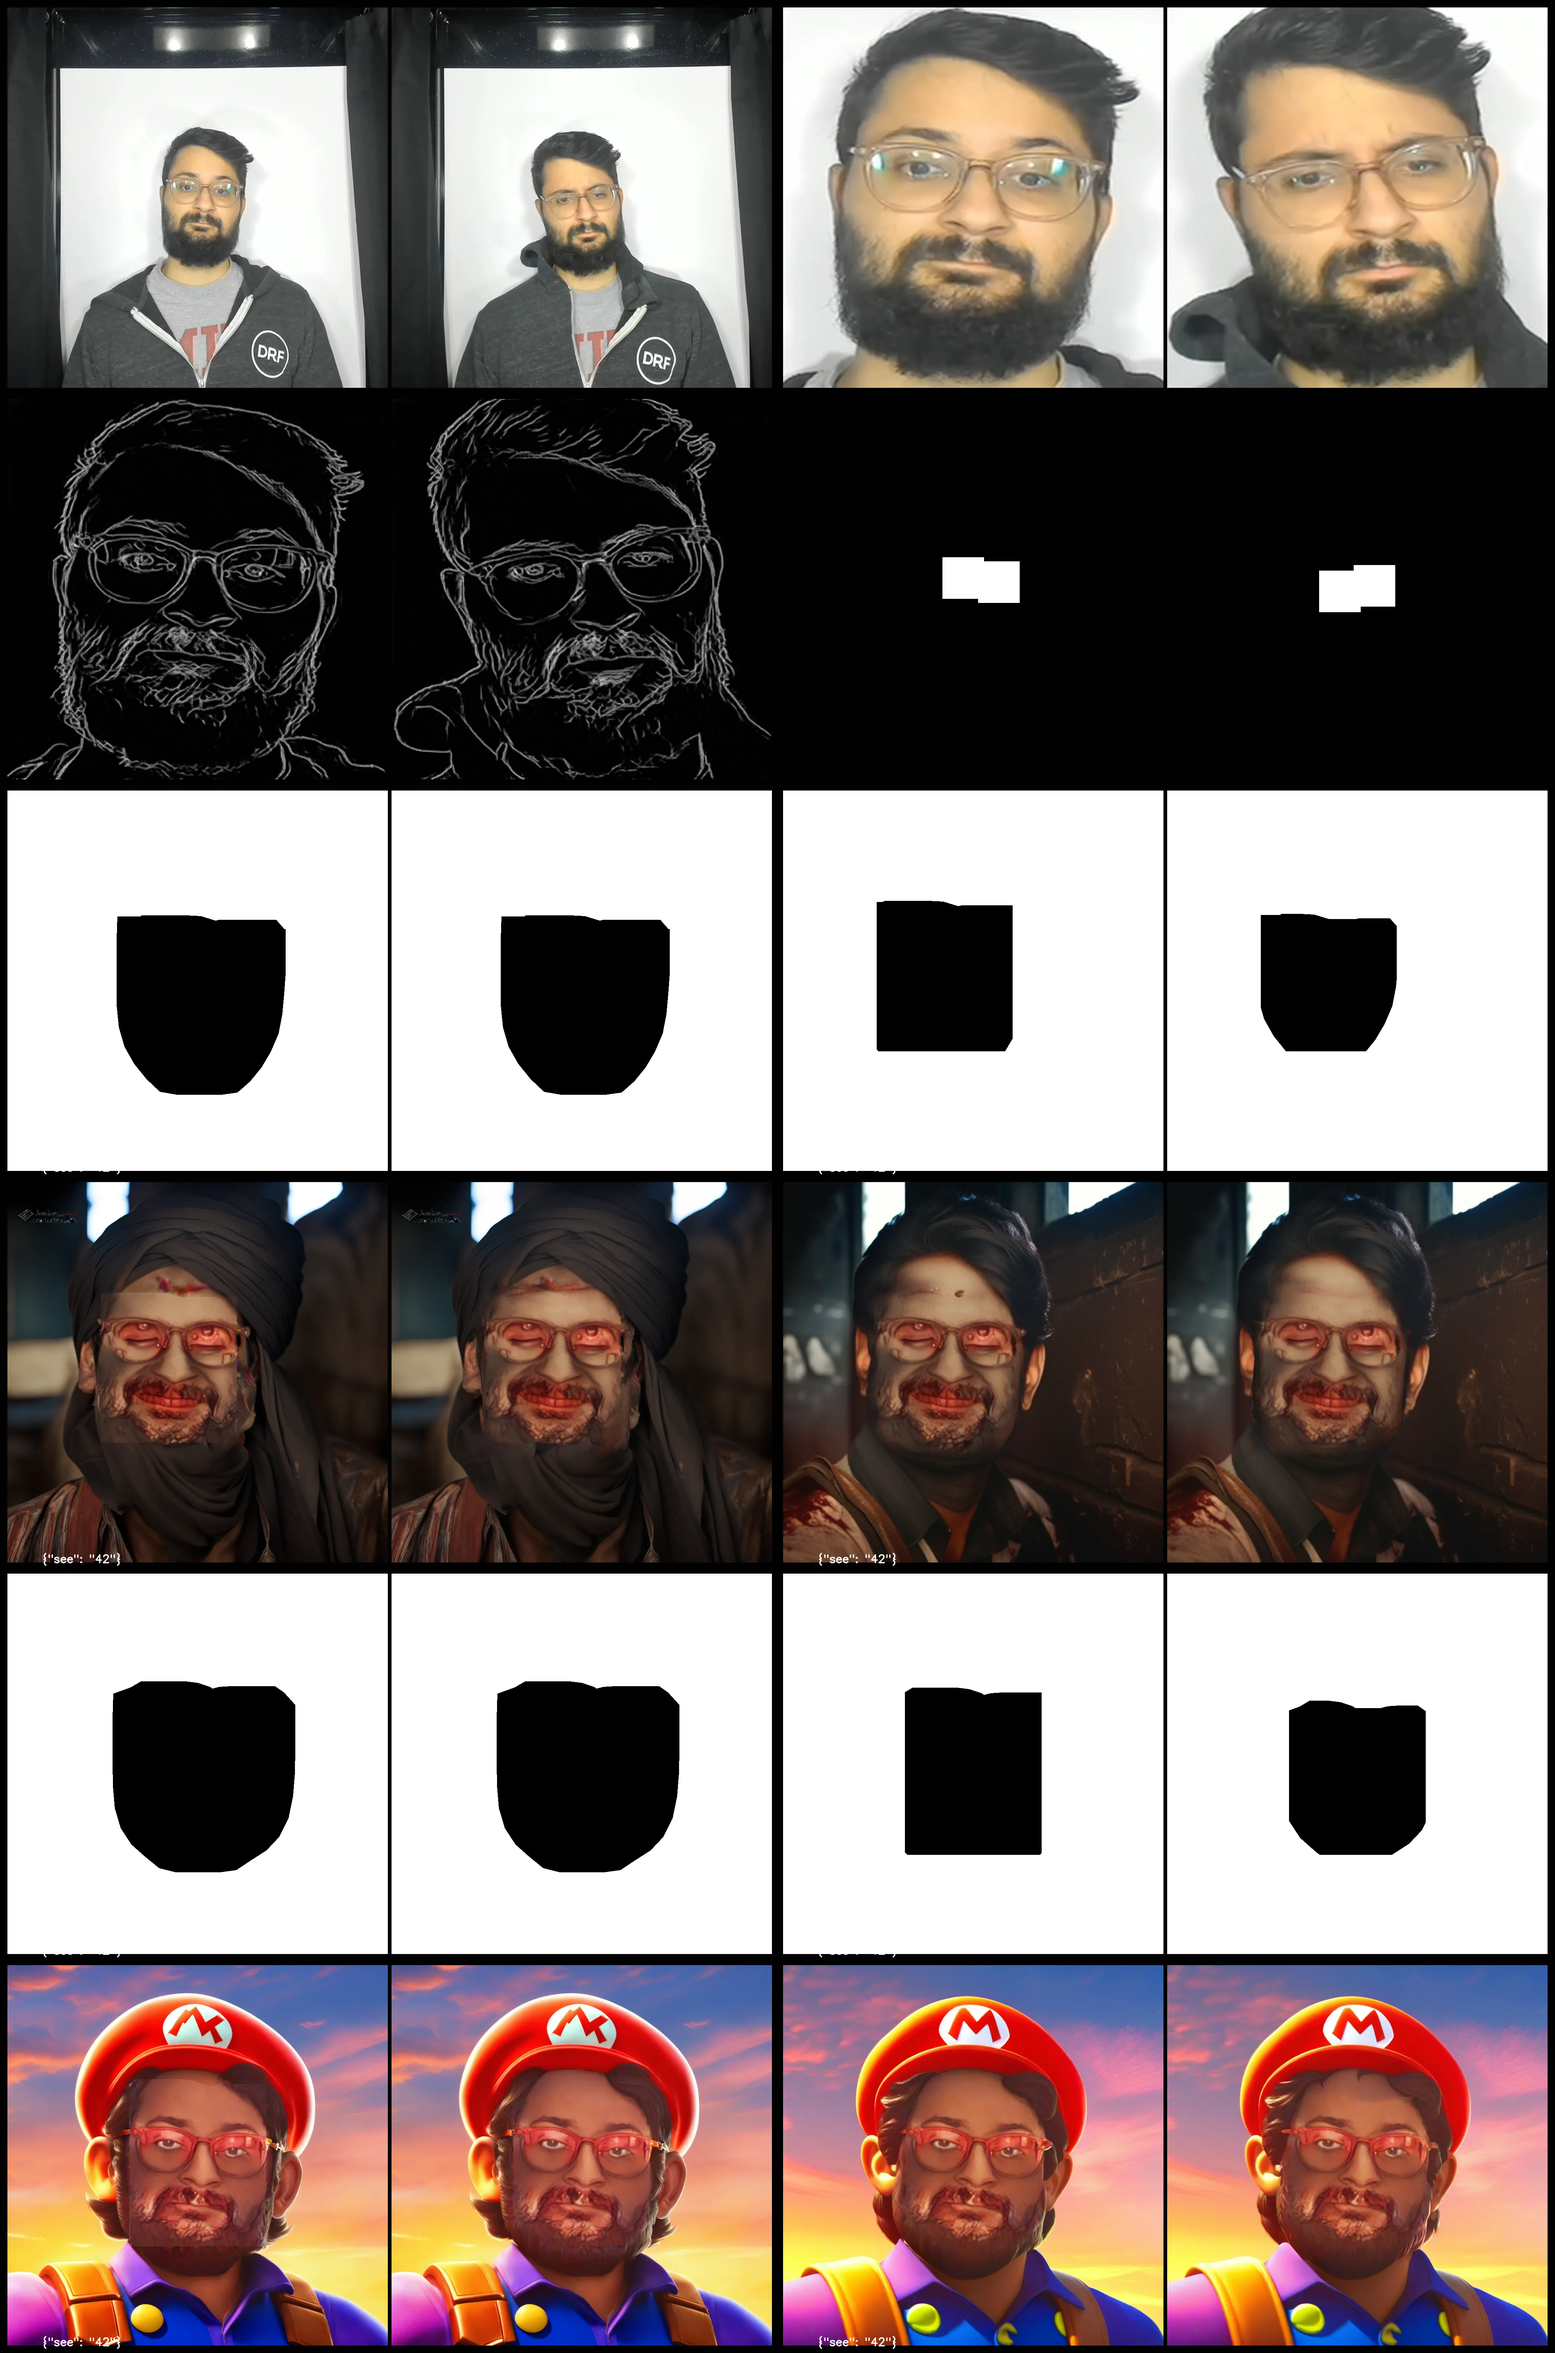
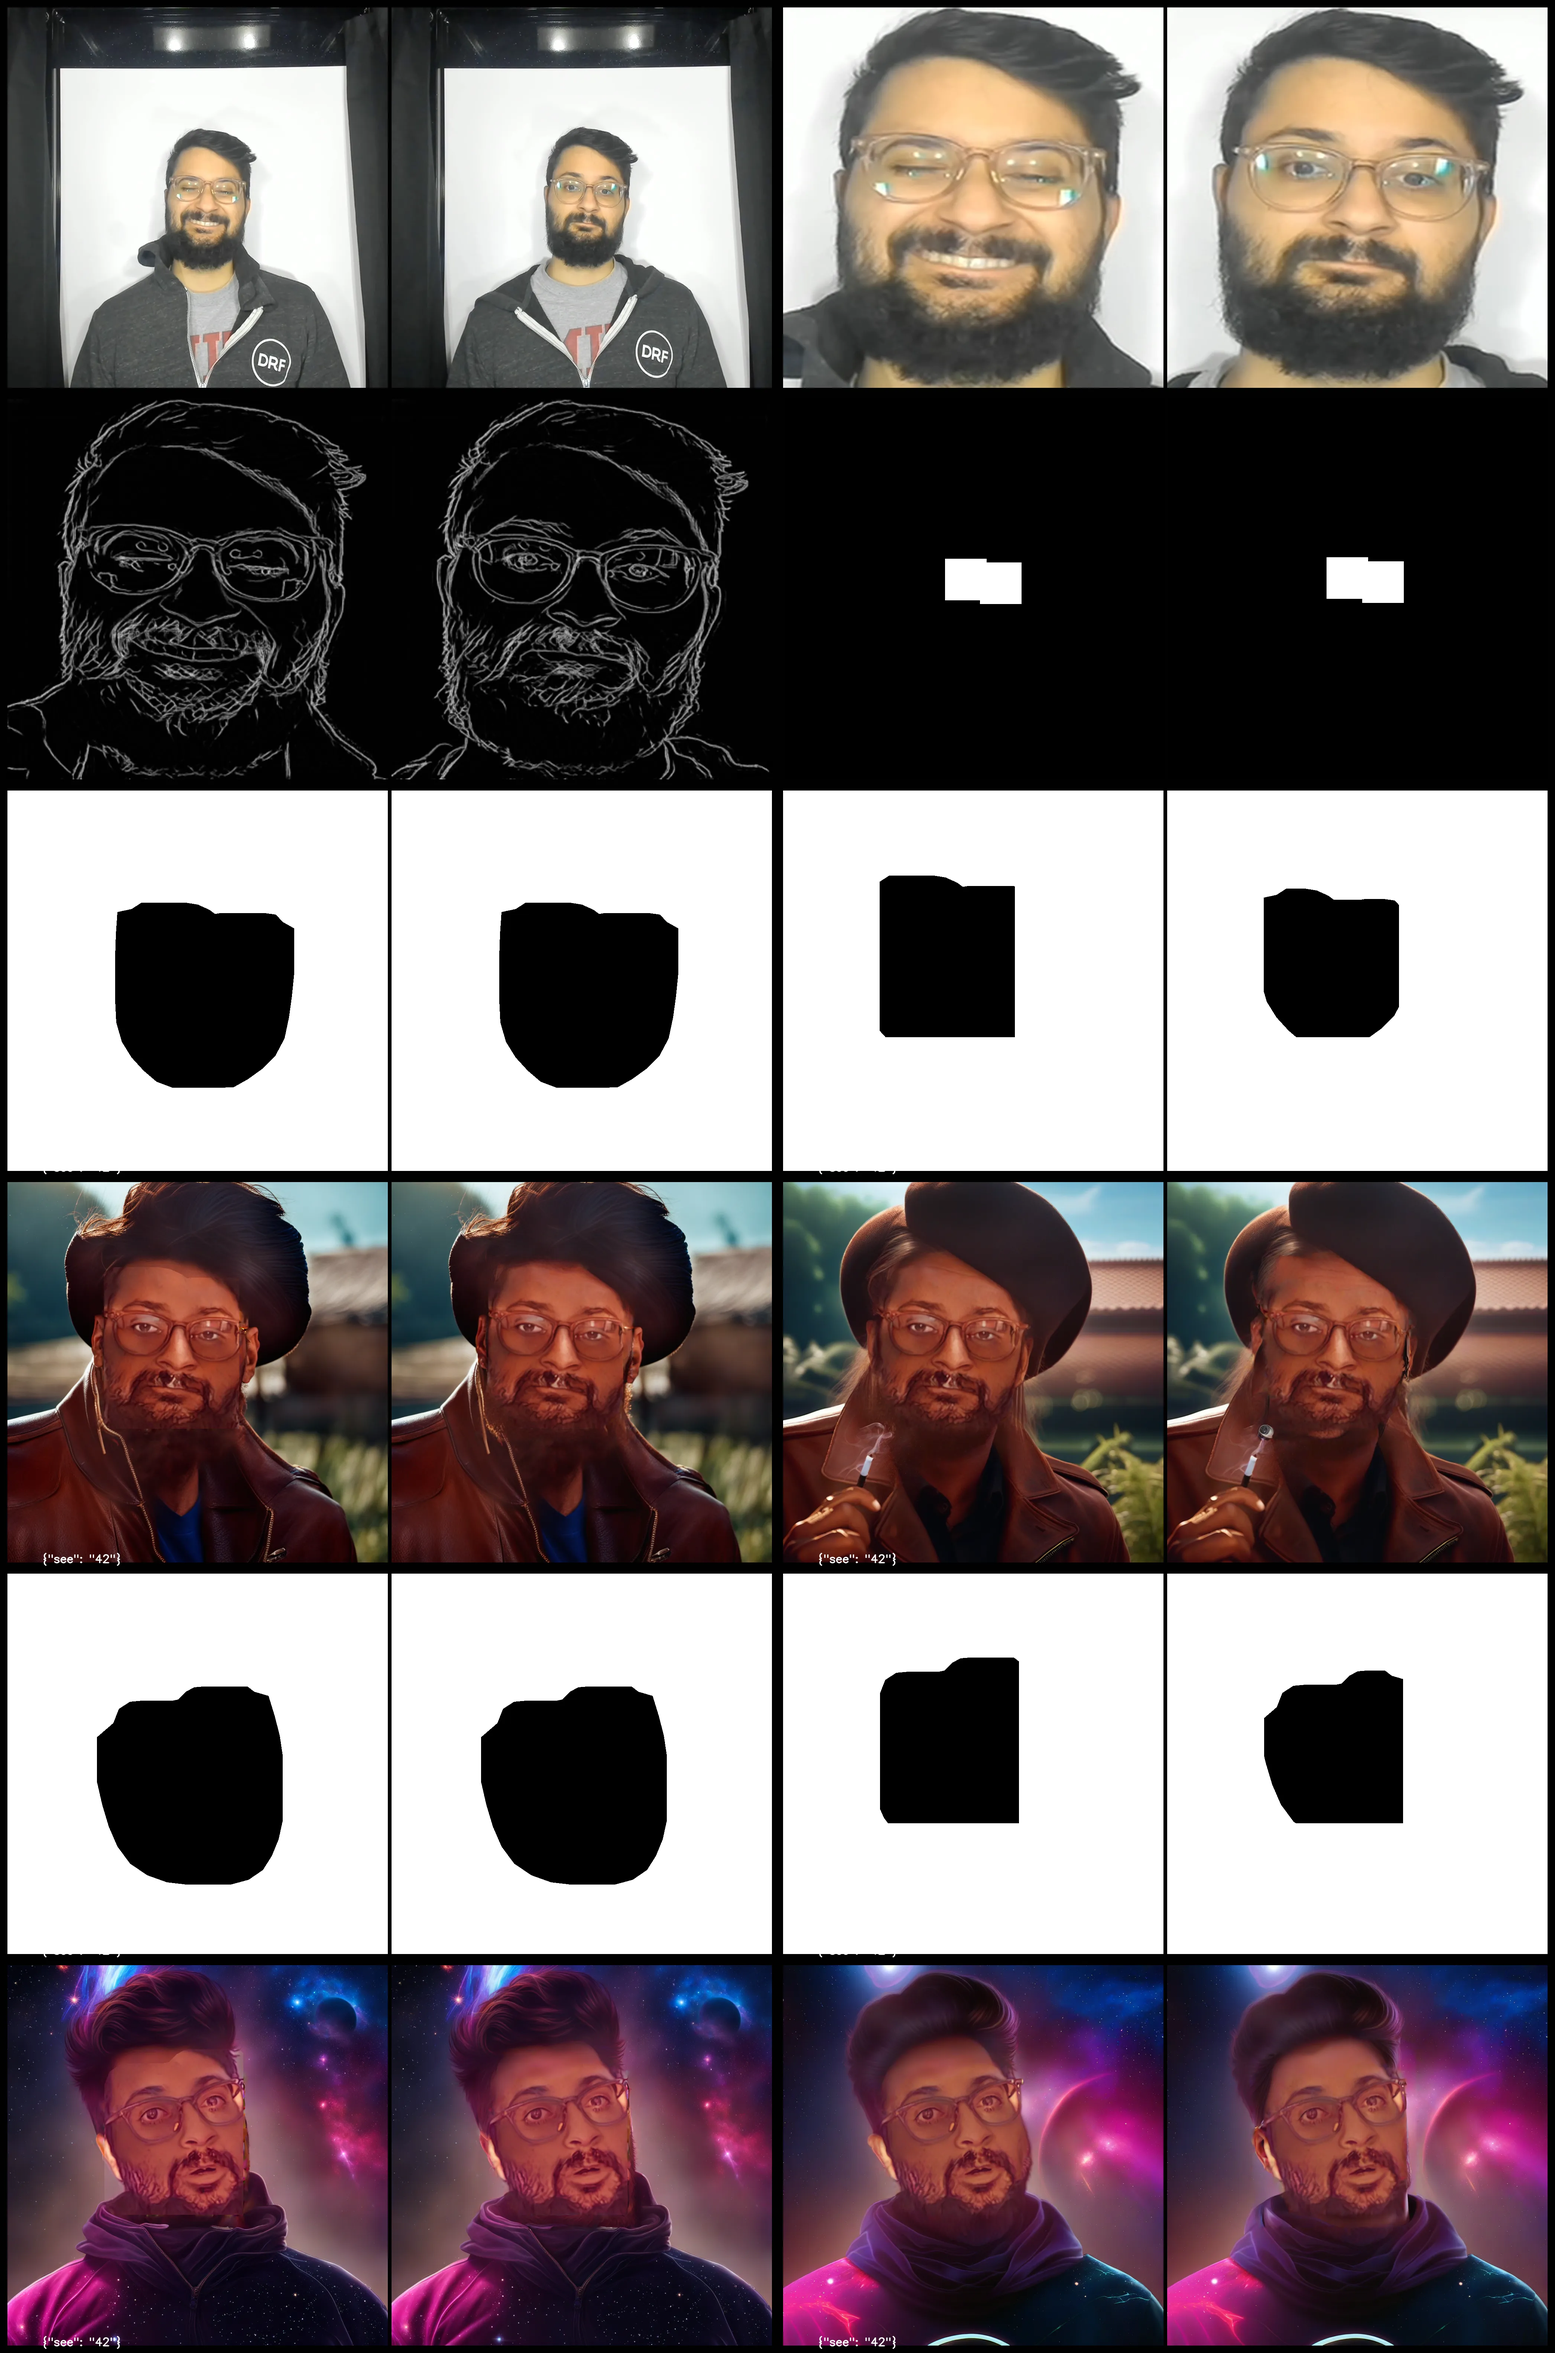
fix a couple nits.

diff --git a/one_shot/params.py b/one_shot/params.py
@@ -149,8 +149,8 @@ class Params(BaseModel):
             negatives=["eyes closed", "extra eyes"],
         ),
         merge=PromptStrings(
-            positives=["4k", "cohesive", "smooth", F("{prompt}", 0.2)],
-            negatives=["blurry", "disjointed", "eyes"],
+            positives=["4k", "cohesive", "detailed", F("{prompt}", 0.2)],
+            negatives=["blurry", "fuzzy", "disjointed", "eyes"],
         ),
         details=PromptStrings(
             positives=[

diff --git a/one_shot/dreambooth/model.py b/one_shot/dreambooth/model.py
@@ -502,7 +502,7 @@ class ModelInstance:
                 image=img,
                 mask_image=self.edge_masks[idx],
                 generator=self.generator,
-                strength=0.55,
+                strength=0.15,
                 guidance_scale=self.params.guidance_scale,
                 num_inference_steps=self.params.inpainting_steps,
                 **self.merge_prompts.kwargs_for_refiner(idx),

diff --git a/one_shot/__main__.py b/one_shot/__main__.py
@@ -9,7 +9,7 @@ def main():
 
 def test():
     Function.lookup(stub.name, "Dreambooth.generate").remote(
-        "ca4b1e40984e7cc6f23777963e9ae76e"
+        "d41d8cd98f00b204e9800998ecf8427e"
     )
 
 
